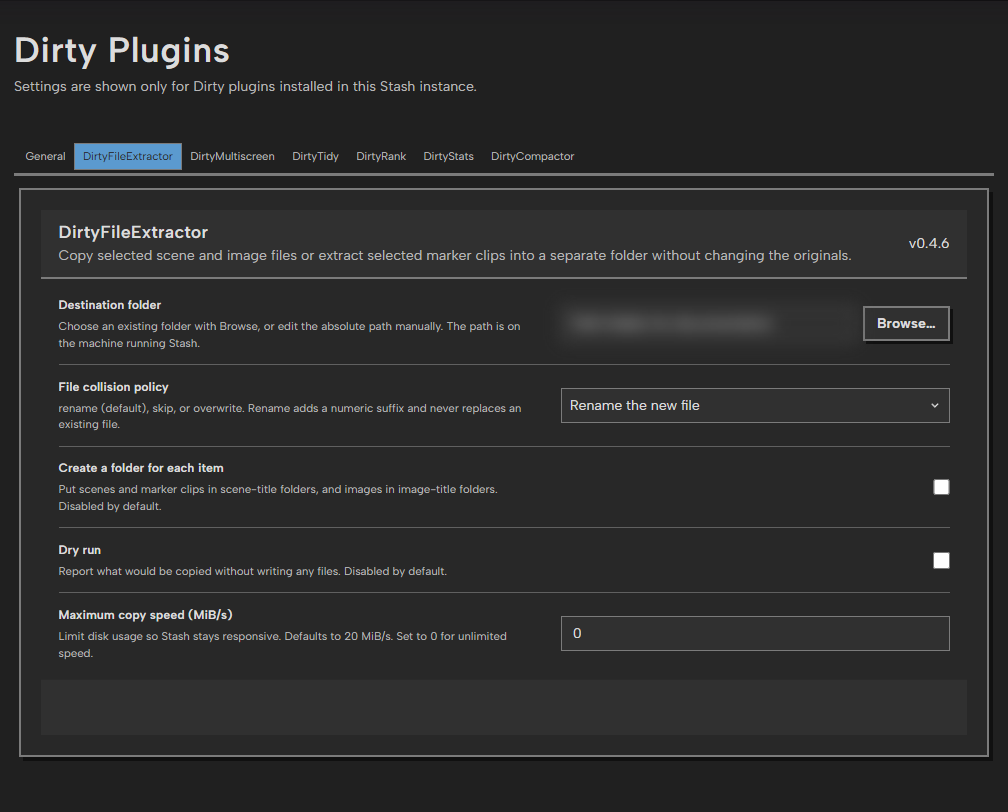
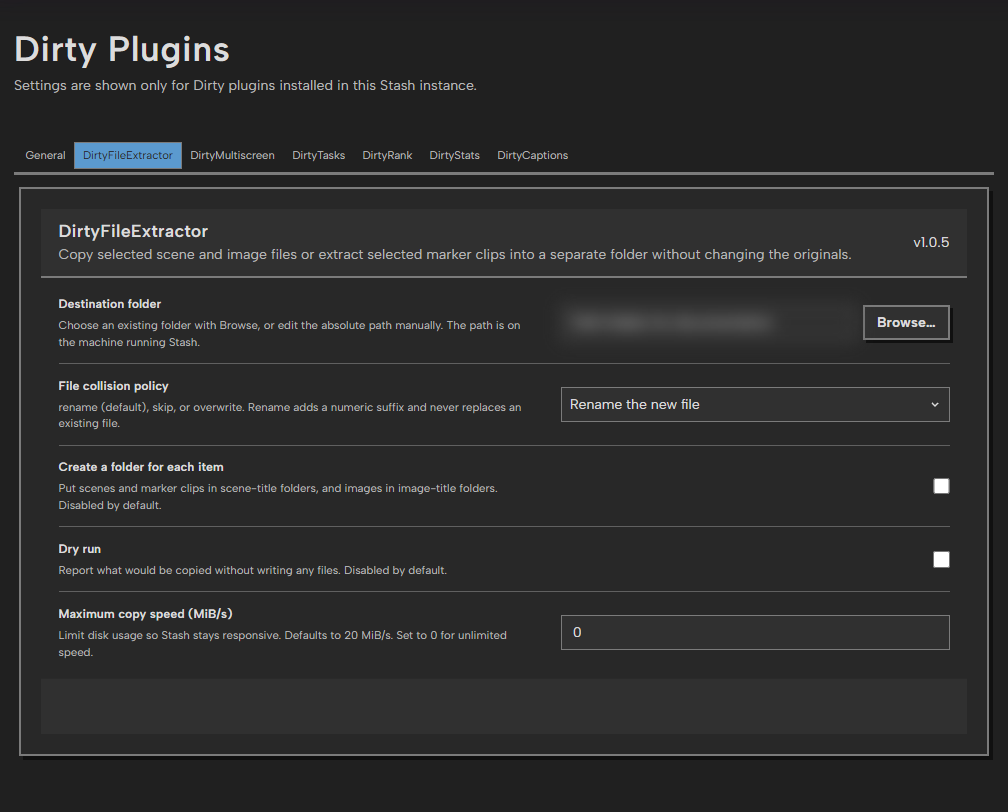
Release hub 1.0.9, Stats 1.0.10 and Multiscreen 1.0.16 with header toggles
The DirtyStats and DirtyMultiscreen settings tabs can hide their buttons
from the Stash header without a reload; their pages stay reachable by URL,
and a hidden Multiscreen button no longer counts scenes.

Recapture the settings screenshots in the current theme, replace the
DirtyTidy and DirtyCompactor images with one DirtyTasks image, and add
DirtyCaptions and DirtyStats settings images to the READMEs.

diff --git a/tests/test_dirty_stats_frontend.js b/tests/test_dirty_stats_frontend.js
@@ -3,7 +3,10 @@ const assert = require("node:assert/strict");
 const { test } = require("node:test");
 const { createRenderer, element, events, findAll } = require("./ui_harness");
 const { chartModule, load } = require("./stats_modules");
-const { runSource } = require("./plugin_paths");
+const fs = require("node:fs");
+const vm = require("node:vm");
+const { runSource, runtimePath } = require("./plugin_paths");
+const { installRegistration } = require("./shared_runtime");
 
 /** A Stats component compiled with its own runtime, with the chart module installed as the route does. */
 function runComponent(file, globals, { external, modules }) {
@@ -547,4 +550,56 @@ test("the chart file loads once on demand and a failed load is retried", async (
   runtime.installCharts(module);
   assert.equal(runtime.charts, module.charts);
   assert.equal(runtime.world, module.world);
+});
+
+test("the header button follows showInMenu without a reload", async () => {
+  const stored = { showInMenu: false };
+  const renderer = createRenderer();
+  const patches = [];
+  const window = events({
+    location: { pathname: "/scenes", search: "" },
+    PluginApi: {
+      React: { ...renderer.hooks, createElement: element, Fragment: "fragment" },
+      components: {},
+      libraries: { ReactRouterDOM: {} },
+      register: { route() {} },
+      patch: { instead() {}, before: (name, callback) => patches.push({ name, callback }) },
+    },
+    DirtyPlugins: {
+      getPluginSettings: async pluginId => (pluginId === "dirtyStats" ? { ...stored } : {}),
+      react: { NavAction: "nav-action" },
+      theme: {
+        defaultKey: "classic",
+        currentKey: "classic",
+        normalizeKey: key => key,
+        ready: Promise.resolve("classic"),
+        subscribe: () => () => {},
+      },
+      debugLog() {},
+    },
+  });
+  installRegistration(window);
+  const context = vm.createContext({ window, document: { documentElement: { style: {} } }, console, URLSearchParams });
+  vm.runInContext(fs.readFileSync(runtimePath("DirtyStats", "dirtyStats.js"), "utf8"), context);
+  const utilityItems = patches.find(patch => patch.name === "MainNavBar.UtilityItems").callback;
+  const render = () => renderer.render(utilityItems({ children: "Native" })[0].children);
+  const button = () => findAll(renderer.tree, node => node.type === "nav-action")[0];
+  const changed = async pluginId => {
+    window.emit("dirty-plugins:configuration-changed", { detail: { pluginId } });
+    await renderer.flush(render);
+  };
+
+  render();
+  assert.equal(renderer.tree.children[0], "Native", "native items stay first");
+  assert.equal(button(), undefined, "the button waits for the stored setting instead of flashing");
+  await renderer.flush(render);
+  assert.equal(button(), undefined, "the stored setting hides the button");
+  stored.showInMenu = true;
+  await changed("multiscreen");
+  assert.equal(button(), undefined, "other plugins' changes do not apply Stats settings");
+  await changed("dirtyStats");
+  assert.equal(button().props.to, "/plugins/dirty-stats/dashboard", "turning it on shows the button");
+  stored.showInMenu = false;
+  await changed("dirtyStats");
+  assert.equal(button(), undefined, "turning it off hides the button again");
 });

diff --git a/plugins/DirtyMultiscreen/src/components/Navigation.tsx b/plugins/DirtyMultiscreen/src/components/Navigation.tsx
@@ -1,7 +1,36 @@
+import { coerceBoolean } from "../../../DirtyPlugins/src/shared/values";
 import { isMarkerLaunchContext } from "../domain/context";
-import { contexts, counts, DirtyPlugins, PluginApi, queries, React } from "../runtime";
+import { DEFAULT_SETTINGS } from "../domain/settings";
+import { contexts, counts, DirtyPlugins, PLUGIN_ID, PluginApi, queries, React } from "../runtime";
 const ROUTE_PATH = "/plugins/multiscreen",
   SCENE_COUNT_DEBOUNCE_MS = 300;
+
+/** Header button; hidden until settings load and while `showInMenu` is off, so hidden buttons count nothing. */
+export function MultiscreenNavLink() {
+  const [visible, setVisible] = React.useState(false);
+  React.useEffect(() => {
+    let active = true;
+    function refresh() {
+      DirtyPlugins.getPluginSettings(PLUGIN_ID)
+        .then(stored => {
+          if (active) setVisible(coerceBoolean(stored.showInMenu, DEFAULT_SETTINGS.showInMenu));
+        })
+        .catch(error => console.error("DirtyMultiscreen could not refresh navigation settings", error));
+    }
+    function configurationChanged(event: Event) {
+      const pluginId = (event as CustomEvent<{ pluginId?: string }>).detail?.pluginId;
+      if (!pluginId || pluginId === PLUGIN_ID) refresh();
+    }
+    refresh();
+    window.addEventListener("dirty-plugins:configuration-changed", configurationChanged);
+    return () => {
+      active = false;
+      window.removeEventListener("dirty-plugins:configuration-changed", configurationChanged);
+    };
+  }, []);
+  return visible ? <ContextualMultiscreenNavLink /> : null;
+}
+
 export function ContextualMultiscreenNavLink() {
   const location = PluginApi.libraries.ReactRouterDOM.useLocation();
   const [contextRevision, setContextRevision] = React.useState(0);

diff --git a/tests/test_dirty_multiscreen_ui.js b/tests/test_dirty_multiscreen_ui.js
@@ -1092,9 +1092,37 @@ async function pagedPlayback() {
   await late.flush();
   assert.equal(late.nodes(node => node.type === "native-player").length, 0);
 }
+async function navigationSetting() {
+  const stored = { showInMenu: false };
+  const h = await start({ mode: "nav", loadSettings: () => ({ ...stored }) });
+  const button = () => h.nodes(node => node.type === "NavAction")[0];
+  const changed = async pluginId => {
+    h.window.emit("dirty-plugins:configuration-changed", { detail: { pluginId } });
+    await h.flush();
+  };
+  assert.equal(h.tree.children[0].type, "original-nav", "native items stay first");
+  assert.equal(button(), undefined, "the stored setting hides the button");
+  h.patches.get("SceneList")({
+    filter: { makeFindFilter: () => ({ sort: "title" }), makeFilter: () => ({}) },
+    selectedIds: new Set(),
+  });
+  await h.tick();
+  assert.equal(h.calls.length, 0, "a hidden button counts no scenes");
+  stored.showInMenu = true;
+  await changed("dirtyStats");
+  assert.equal(button(), undefined, "other plugins' changes do not apply Multiscreen settings");
+  await changed("multiscreen");
+  assert.equal(button().props.to, "/plugins/multiscreen", "turning it on shows the button");
+  stored.showInMenu = false;
+  await changed("multiscreen");
+  assert.equal(button(), undefined, "turning it off hides the button again");
+  await h.unmount();
+  assert.equal(h.window.handlers.get("dirty-plugins:configuration-changed")?.size || 0, 0);
+}
 (async () => {
   await registration();
   await contextsAndCounts();
+  await navigationSetting();
   await playbackAndCleanup();
   await markersAndLoops();
   await stablePaneSubscriptions();

diff --git a/plugins/DirtyStats/src/settings.ts b/plugins/DirtyStats/src/settings.ts
@@ -1,4 +1,4 @@
-import { constants } from "@generated/dirtyStats.settings";
+import { constants, defaults } from "@generated/dirtyStats.settings";
 import { options as hubOptions } from "@generated/dirtyPlugins.settings";
 import { React, hub } from "./runtime";
 import type { SaveController } from "../../DirtyPlugins/src/save";
@@ -14,12 +14,14 @@ const DEFAULT_THEME = hub?.theme.defaultKey;
 // Choices and defaults come from schemas/dirtyStats.settings.json; the suite theme keys from the hub's schema.
 export const STATS_SETTING_SPECS = {
   visualTheme: { options: hubOptions.visualTheme.map(option => option.value) },
+  showInMenu: { options: [false, true] },
   ...(Object.fromEntries(Object.entries(constants.displayOptions).map(([name, options]) => [name, { options }])) as {
     [K in keyof typeof constants.displayOptions]: { options: (typeof constants.displayOptions)[K] };
   }),
 };
 export const statsSettings: StatsSettings = {
   visualTheme: hub?.theme.currentKey,
+  showInMenu: defaults.showInMenu,
   ...constants.displayDefaults,
 };
 const statsSettingsListeners = new Set<() => void>();

diff --git a/plugins/DirtyPlugins/src/constants.ts b/plugins/DirtyPlugins/src/constants.ts
@@ -2,6 +2,7 @@ import * as captions from "@generated/dirtyCaptions.settings";
 import * as hubSettings from "@generated/dirtyPlugins.settings";
 import * as extractor from "@generated/extractScenes.settings";
 import * as multiscreen from "@generated/multiscreen.settings";
+import { defaults, integers, limits, options, order } from "@generated/dirtyStats.settings";
 export const ROUTE_PATH = "/plugins/dirty-plugins";
 export const CONFIGURATION_CHANGED_EVENT = "dirty-plugins:configuration-changed";
 export const FIELD_ACTIONS_CHANGED_EVENT = "dirty-plugins:field-actions-changed";
@@ -27,6 +28,8 @@ const STANDARD_SETTINGS: Record<string, StandardSettings> = {
   dirtyCaptions: captions,
   extractScenes: extractor,
   multiscreen,
+  // Only the tables: Stats display constants stay out of the hub bundle.
+  dirtyStats: { order, defaults, options, limits, integers },
 };
 function standardTable<T>(pick: (settings: StandardSettings) => T): Record<string, T> {
   return Object.fromEntries(Object.entries(STANDARD_SETTINGS).map(([id, settings]) => [id, pick(settings)]));

diff --git a/tests/test_dirty_plugins_ui.js b/tests/test_dirty_plugins_ui.js
@@ -127,6 +127,10 @@ async function main() {
   assert.equal(numberField.max, 36);
   assert.equal(domain.fieldDefinition("dirtyPlugins", { name: "visualTheme", type: "STRING" }).options.length, 7);
   assert.equal(domain.fieldDefinition("multiscreen", { name: "randomize", type: "BOOLEAN" }).kind, "checkbox");
+  // An unset Stats header setting shows its schema default, as Stats itself applies it.
+  const statsMenu = { name: "showInMenu", type: "BOOLEAN" };
+  assert.equal(domain.initialFieldValue("dirtyStats", statsMenu, {}), true);
+  assert.equal(domain.initialFieldValue("dirtyStats", statsMenu, { showInMenu: false }), false);
   const patch = h.patches.find(item => item.name === "PluginSettings").callback;
   assert.equal(
     patch({ id: "unmanaged" }, () => "native settings"),

diff --git a/plugins/DirtyStats/src/components/Route.tsx b/plugins/DirtyStats/src/components/Route.tsx
@@ -167,7 +167,20 @@ export function DirtyStatsRoute(): R.ReactElement | null {
   );
 }
 
+/** Header button to the dashboard; hidden until settings load and while `showInMenu` is off. */
 export function NavIcon(): R.ReactElement | null {
+  const [shown] = useStatsSetting("showInMenu");
+  const [loaded, setLoaded] = React.useState(false);
+  React.useEffect(() => {
+    let active = true;
+    void statsSettingsReady.then(() => {
+      if (active) setLoaded(true);
+    });
+    return () => {
+      active = false;
+    };
+  }, []);
+  if (!loaded || !shown) return null;
   return (
     <hub.react.NavAction
       to={dashboardRoute}

diff --git a/tests/multiscreen_harness.js b/tests/multiscreen_harness.js
@@ -186,7 +186,7 @@ function createMultiscreenHarness(options = {}) {
       querySelectorAll: () => [...media.values()].map(pair => pair.video).filter(video => video.isConnected),
       contains: video => [...media.values()].some(pair => pair.video === video && video.isConnected),
     });
-  const window = {
+  const window = events({
     DirtyPlugins: hub,
     location: {
       get pathname() {
@@ -238,7 +238,7 @@ function createMultiscreenHarness(options = {}) {
         },
       },
     },
-  };
+  });
   installRegistration(window, { error: (...args) => errors.push(args) });
   class Observer {
     constructor(callback) {

diff --git a/plugins/DirtyMultiscreen/src/index.tsx b/plugins/DirtyMultiscreen/src/index.tsx
@@ -1,4 +1,4 @@
-import { ContextualMultiscreenNavLink } from "./components/Navigation";
+import { MultiscreenNavLink } from "./components/Navigation";
 import { MultiscreenRoute } from "./components/Route";
 import { contexts, DirtyPlugins, PLUGIN_ID, PluginApi, React } from "./runtime";
 
@@ -30,7 +30,7 @@ DirtyPlugins?.registerPlugin(PLUGIN_ID, () => {
       children: (
         <React.Fragment>
           {props.children}
-          <ContextualMultiscreenNavLink />
+          <MultiscreenNavLink />
         </React.Fragment>
       ),
     },

diff --git a/plugins/DirtyStats/src/types.ts b/plugins/DirtyStats/src/types.ts
@@ -274,6 +274,7 @@ export interface StatsTheme {
 export type SettingValue = string | number | boolean;
 export interface StatsSettings extends Record<string, SettingValue> {
   visualTheme: string;
+  showInMenu: boolean;
   showMapNumbers: boolean;
   sceneRatingRounding: number;
   performerRatingRounding: number;

diff --git a/README.md b/README.md
@@ -15,13 +15,13 @@ a shared SQLite database, and is installed automatically as a dependency.
 
 | Plugin | What it does | Version |
 | --- | --- | ---: |
-| [DirtyStats](plugins/DirtyStats/) | A customizable dashboard plus full views for origins, growth, ages, ratings, viewing concentration, efficiency, studios, tags, birthdays and cast connections, with native filters and PNG export. | 1.0.9 |
+| [DirtyStats](plugins/DirtyStats/) | A customizable dashboard plus full views for origins, growth, ages, ratings, viewing concentration, efficiency, studios, tags, birthdays and cast connections, with native filters and PNG export. | 1.0.10 |
 | [DirtyRank](plugins/DirtyRank/) | Ranks performers in gender boxes through category battles using high-precision Glicko-2 ratings, adaptive matchmaking, Gauntlet and King of the hill modes, and leaderboards. | 1.0.7 |
-| [DirtyMultiscreen](plugins/DirtyMultiscreen/) | Plays scenes or markers in a configurable, immersive multi-pane grid. | 1.0.15 |
+| [DirtyMultiscreen](plugins/DirtyMultiscreen/) | Plays scenes or markers in a configurable, immersive multi-pane grid. | 1.0.16 |
 | [DirtyFileExtractor](plugins/DirtyFileExtractor/) | Copies selected scene or image files and extracts selected markers as precisely bounded MP4 clips without changing the originals. | 1.0.5 |
 | [DirtyTasks](plugins/DirtyTasks/) | Organizes files, creates additional encoded versions on the same scene, and updates tags with independent action triggers. | 1.0.4 |
 | [DirtyCaptions](plugins/DirtyCaptions/) | Displays embedded text subtitles and filters scenes by embedded caption tracks without separate subtitle files or video re-encoding. | 1.0.7 |
-| [DirtyPlugins](plugins/DirtyPlugins/) | Unlisted shared runtime, settings hub, suite theme, and database owner. Installed automatically. | 1.0.8 |
+| [DirtyPlugins](plugins/DirtyPlugins/) | Unlisted shared runtime, settings hub, suite theme, and database owner. Installed automatically. | 1.0.9 |
 
 ## Shared look and settings
 
@@ -81,6 +81,12 @@ Scene cards below the chart are replaced by a placeholder in capture mode.
 The cast constellation links performers who share scenes; node size follows
 scene count and colour follows gender.
 
+#### DirtyStats settings
+
+![DirtyStats settings tab with the Stash header button toggle](docs/images/dirty-stats-settings.png)
+
+The only setting hides or restores the bubble chart button in the Stash header.
+
 ### DirtyRank
 
 - **Gender boxes**: each box selects a group of genders and has its own
@@ -123,8 +129,9 @@ each category's rank and rating.
 ![DirtyRank gender boxes, presentation, confidence goal and scoring settings](docs/images/dirty-rank-settings.png)
 
 Configure gender boxes, navigation buttons, leaderboard and battle
-presentation, the confidence goal, overall scoring, categories, and advanced
-Glicko-2 parameters. Every change saves automatically.
+presentation, the confidence goal, and overall scoring. Categories, their
+weights, and advanced Glicko-2 parameters follow further down the same tab.
+Every change saves automatically.
 
 ### DirtyMultiscreen
 
@@ -149,7 +156,8 @@ the public repository.
 ![DirtyMultiscreen playback and grid settings](docs/images/dirty-multiscreen-settings.png)
 
 Set the screen count and geometry, then choose how scenes are distributed,
-started, looped, muted, and paused.
+started, looped, muted, and paused. The last setting hides or restores the grid
+button in the Stash header.
 
 ### DirtyFileExtractor
 
@@ -189,9 +197,13 @@ capture.
 
 [DirtyTasks documentation and upgrade instructions](plugins/DirtyTasks/).
 
-![Organization strategy, now in DirtyTasks](docs/images/dirty-tidy-settings.png)
+#### DirtyTasks settings
 
-![Encoding rule editor, now in DirtyTasks](docs/images/dirty-compactor-settings.png)
+![DirtyTasks file organization, tag update and encoding rule triggers](docs/images/dirty-tasks-settings.png)
+
+One tab holds the organization strategy with its preview, the tag update, and
+the ordered encoding rules. Each row has its own trigger; rule summaries show
+the matching scenes and the estimated output size.
 
 ### DirtyCaptions
 
@@ -216,6 +228,13 @@ or turn captions off. Existing external captions remain available. Settings
 live in **Dirty Plugins settings → DirtyCaptions**. See the
 [DirtyCaptions guide](plugins/DirtyCaptions/README.md) for
 setup, supported formats, and troubleshooting.
+
+#### DirtyCaptions settings
+
+![DirtyCaptions playback and caption index settings](docs/images/dirty-captions-settings.png)
+
+Playback options, automatic index maintenance, and the caption index status
+with **Refresh caption index** and **Reprobe all files**.
 
 ## Installation from Stash
 
@@ -245,12 +264,14 @@ link to the shared Dirty Plugins settings page. Each installed plugin has its
 own tab there.
 
 - **General:** choose the suite theme and create database backups.
-- **DirtyStats:** no settings are needed. Open the bubble chart icon in the
-  utility navigation and choose **Edit dashboard** to arrange your widgets.
+- **DirtyStats:** open the bubble chart icon in the utility navigation and
+  choose **Edit dashboard** to arrange your widgets. Its tab can hide the icon;
+  Stats pages stay reachable by URL.
 - **DirtyRank:** set up gender boxes, their categories and weights, and the
   desired confidence goal. The crossed-swords and trophy buttons open Battles
   and Leaderboards.
 - **DirtyMultiscreen:** choose the desired pane count and playback defaults.
+  Its tab can also hide the grid button from the Stash header.
 - **DirtyFileExtractor:** choose an absolute destination directory on the
   machine or container running Stash.
 - **DirtyTasks organization:** configure the folder and filename rows, select **Preview**,
@@ -530,6 +551,12 @@ main/
 ```
 
 ## Release notes
+
+- **DirtyStats 1.0.10, DirtyMultiscreen 1.0.16 and DirtyPlugins 1.0.9:** the
+  DirtyStats and DirtyMultiscreen tabs of the Dirty Plugins settings can hide
+  their buttons from the Stash header. A button disappears or returns as soon
+  as the setting changes, and its pages stay reachable by URL. A hidden
+  DirtyMultiscreen button no longer counts scenes in the background.
 
 - **DirtyStats 1.0.9:** ECharts and the world map moved into a separate file
   that loads the first time a Stats page opens. The Stats script that every

diff --git a/plugins/DirtyStats/README.md b/plugins/DirtyStats/README.md
@@ -8,7 +8,9 @@ modules it uses and its world map data are in `assets/dirtyStatsCharts.js`, whic
 loads only when a Stats page opens. Stash users need no Node or TypeScript tooling.
 
 Explore Stash statistics from the **bubble chart icon** (red, blue, and white
-circles) in the utility navigation.
+circles) in the utility navigation. **Show DirtyStats in the Stash header** in
+the DirtyStats tab of the Dirty Plugins settings hides or restores it without a
+reload; Stats pages stay reachable by URL.
 The icon opens a customizable **Dashboard** at
 `/plugins/dirty-stats/dashboard`. Choose **Edit dashboard** to add or remove any available statistic,
 reorder widgets by dragging their edit-mode handle or using arrow keys on it,
@@ -367,6 +369,13 @@ grouping, the range slider, and PNG export.
 
 The constellation as a large dashboard widget, with gender-coloured nodes sized
 by matching scenes.
+
+### Settings
+
+![DirtyStats settings tab with the Stash header button toggle](../../docs/images/dirty-stats-settings.png)
+
+The DirtyStats tab of the Dirty Plugins settings hides or restores the bubble
+chart button in the Stash header.
 
 ## Bundled dependencies
 
